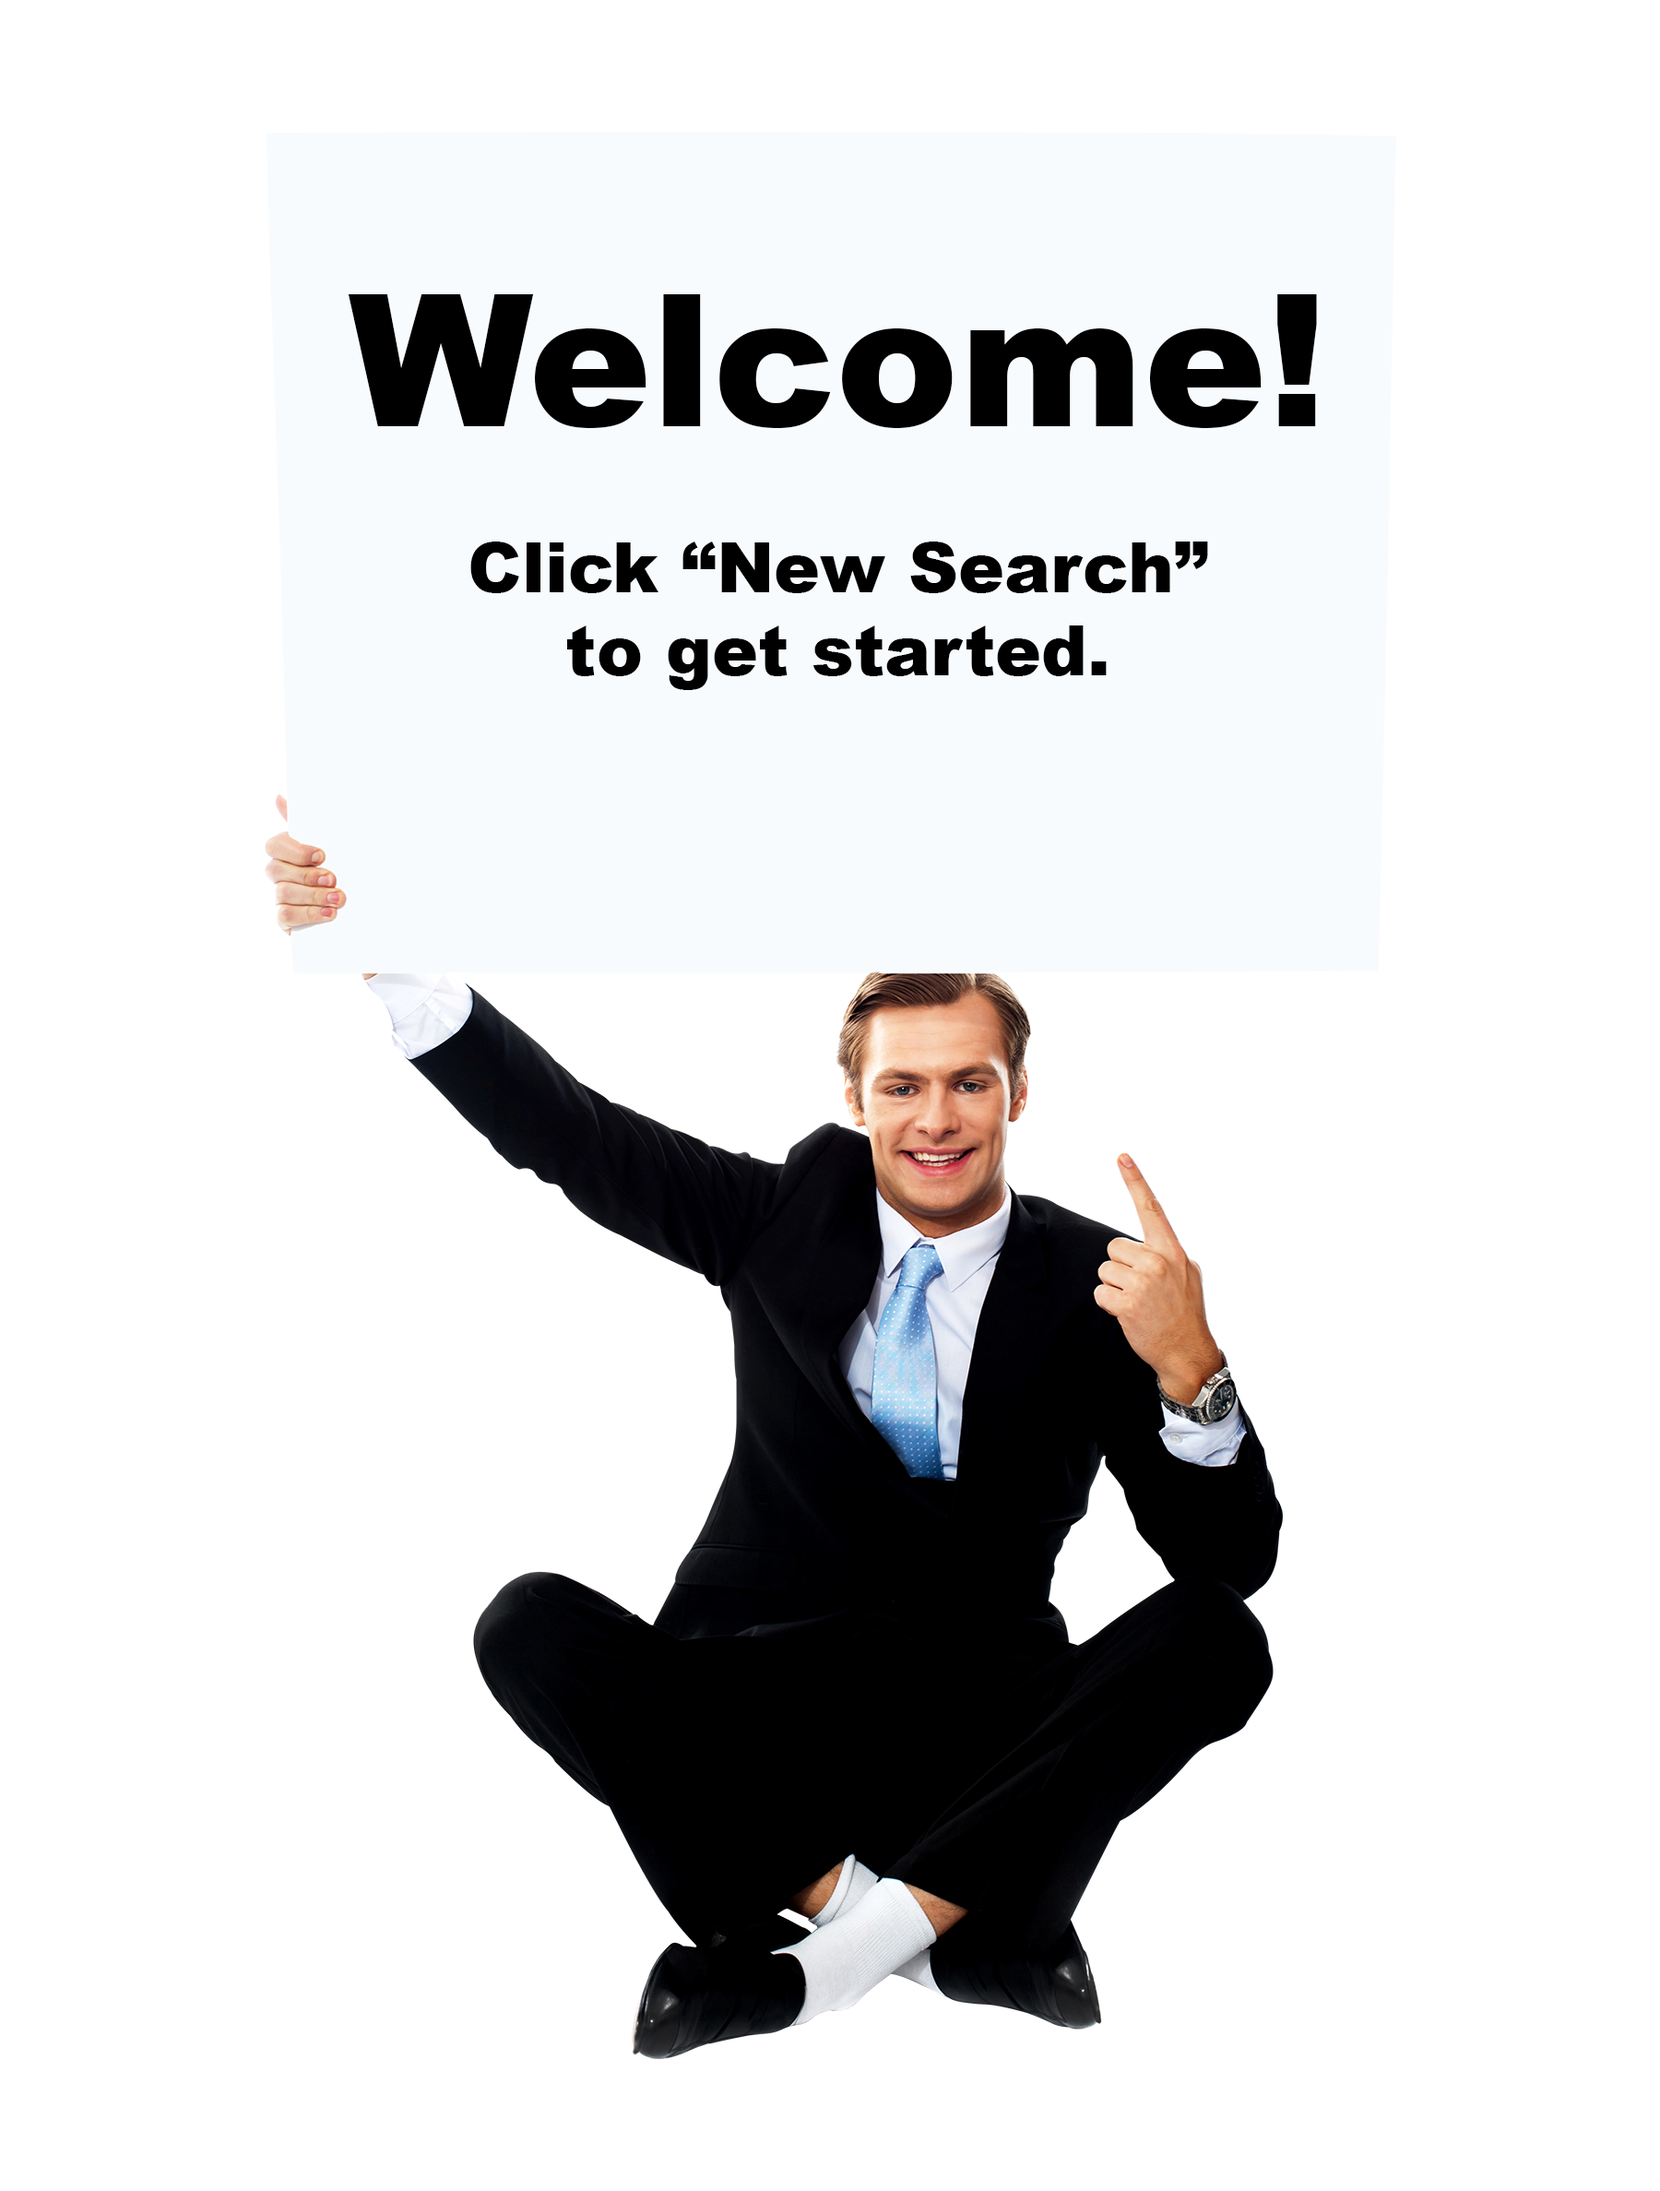
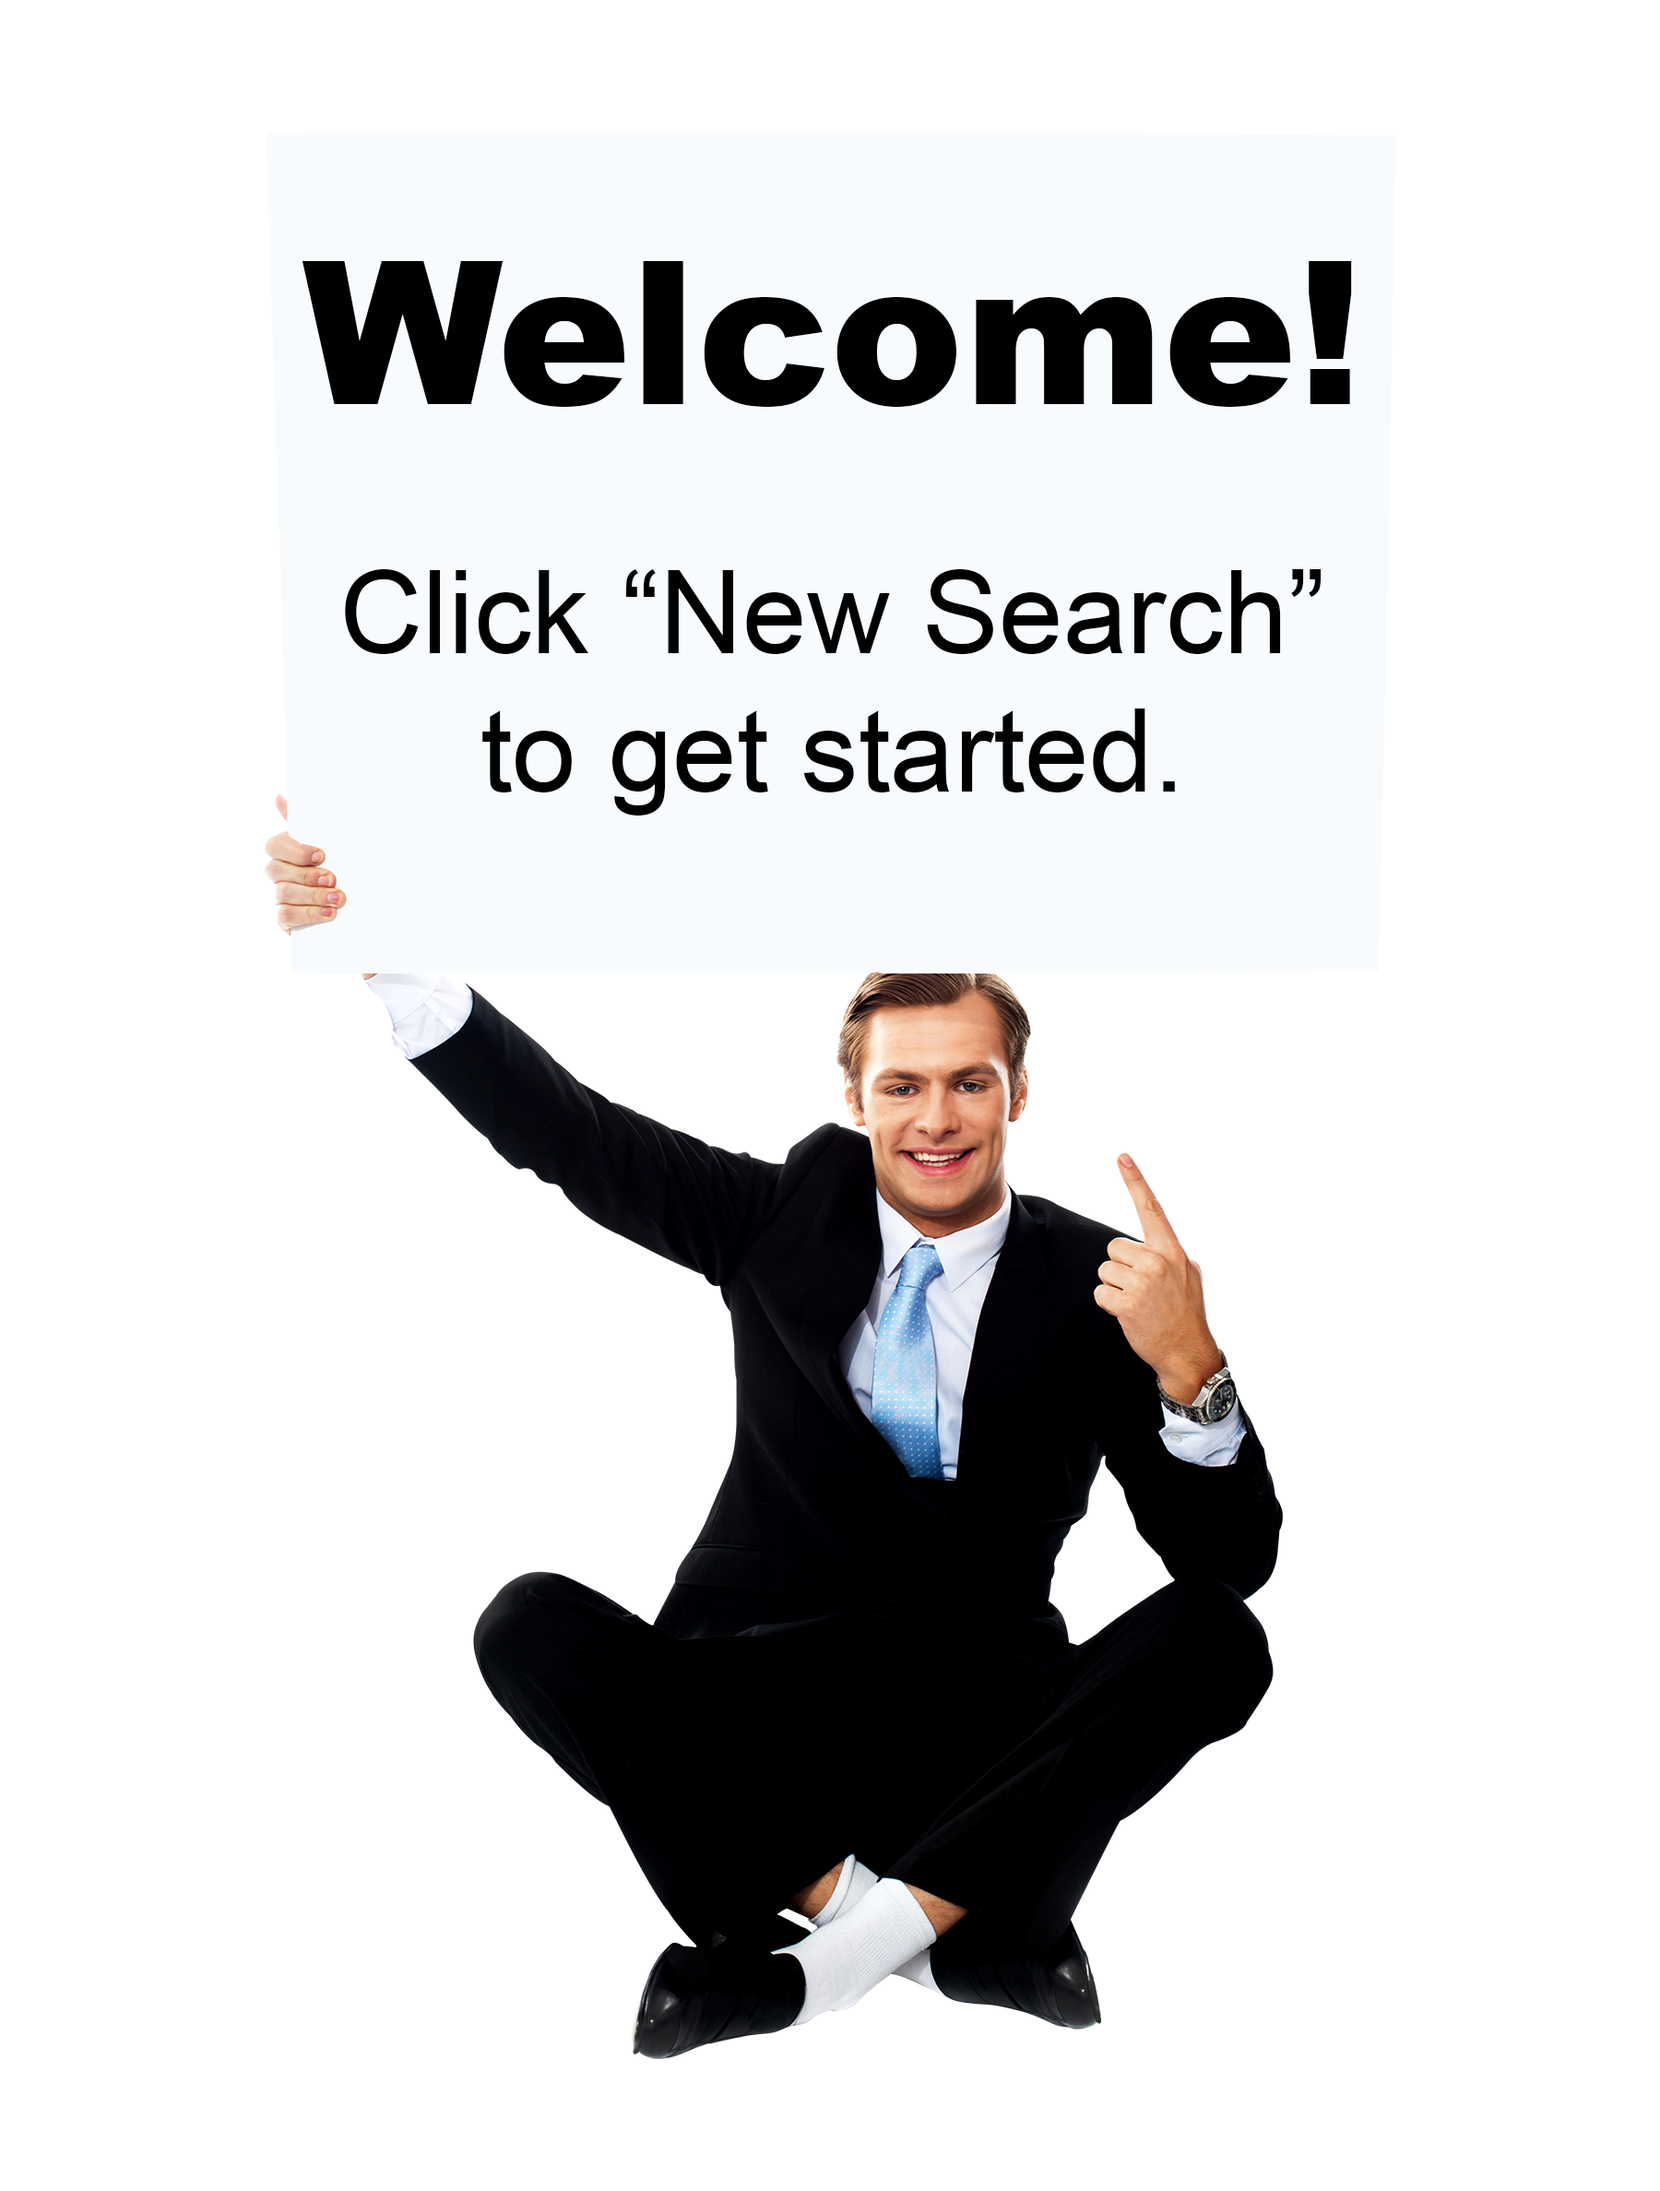
everything working but haven't added pasword validation

Changed region(s): [[0.1867, 0.2493, 0.8089, 0.3739], [0.1867, 0.0935, 0.84, 0.2181]]

diff --git a/src/Signup.js b/src/Signup.js
@@ -44,8 +44,8 @@ function Signup(props) {
       {
         fields: {
           user: `${props.username}`,
-          title: `Welcome ${props.username}!  Click "New Search" to begin.`,
-          image: "",
+          title: "Have Fun!",
+          image: "welcome",
           tvmv: "t",
         },
       },
@@ -56,8 +56,6 @@ function Signup(props) {
         },
       }
     );
-    // props.updateNote("");
-    // history.push("/home");
   };
 
   return (

diff --git a/src/Home.js b/src/Home.js
@@ -35,6 +35,7 @@ function Home(props) {
   const handleClearSearch = () => {
     props.updateResults("");
   };
+
   console.log(vaultContent);
   if (vaultContent[0]) {
     const userName = props.username;

diff --git a/src/secrets.js b/src/secrets.js
@@ -2,6 +2,7 @@ const userInfo = {
   don: "mysecret",
   tom: "topsecret",
   jon: "puddles",
+  billy: "dognamedsue",
 };
 
 export default userInfo;
